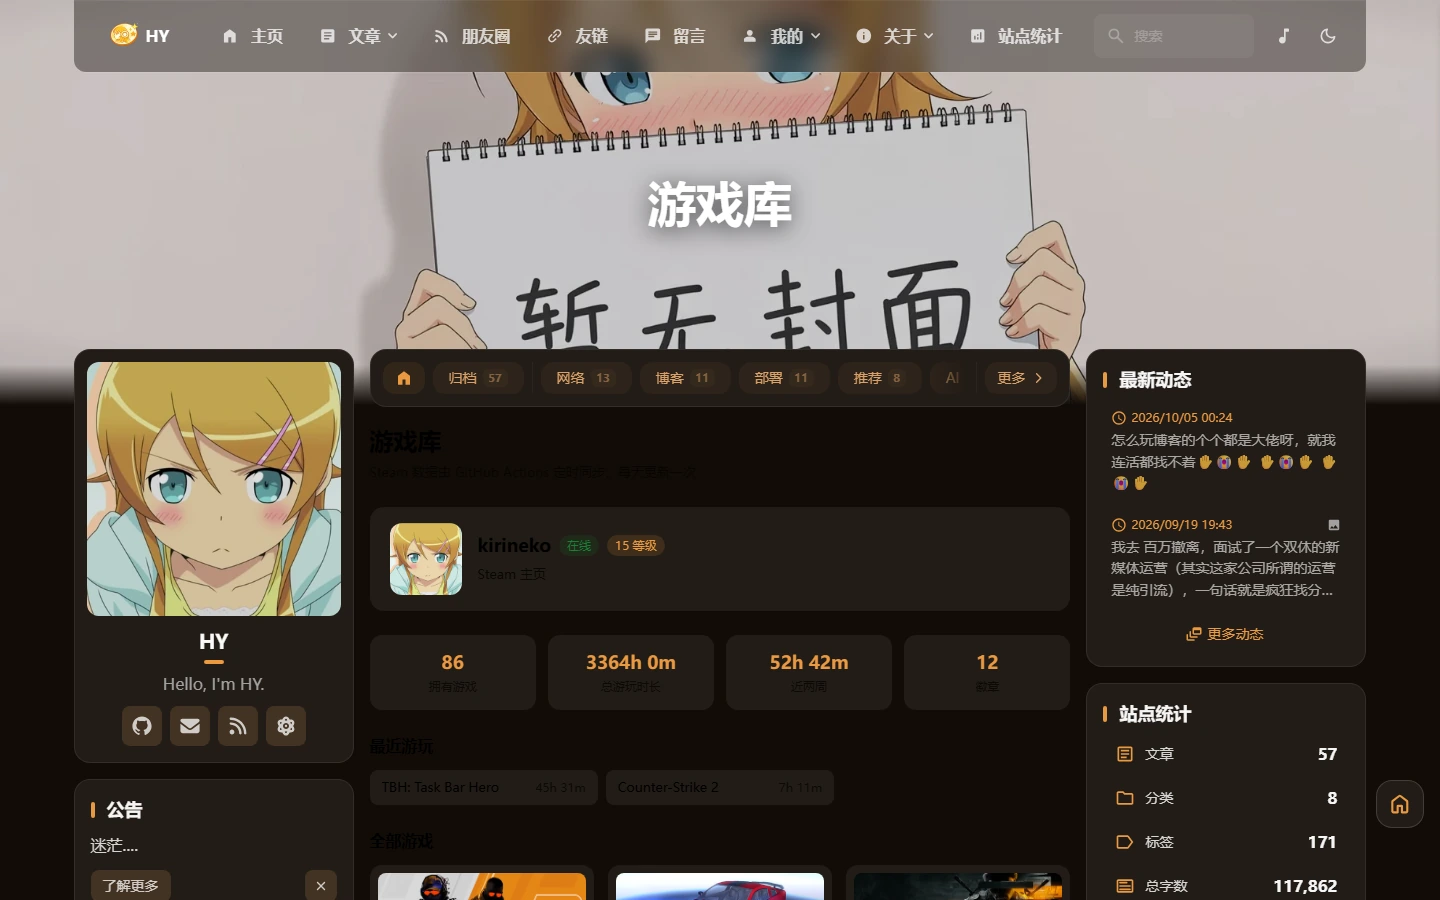
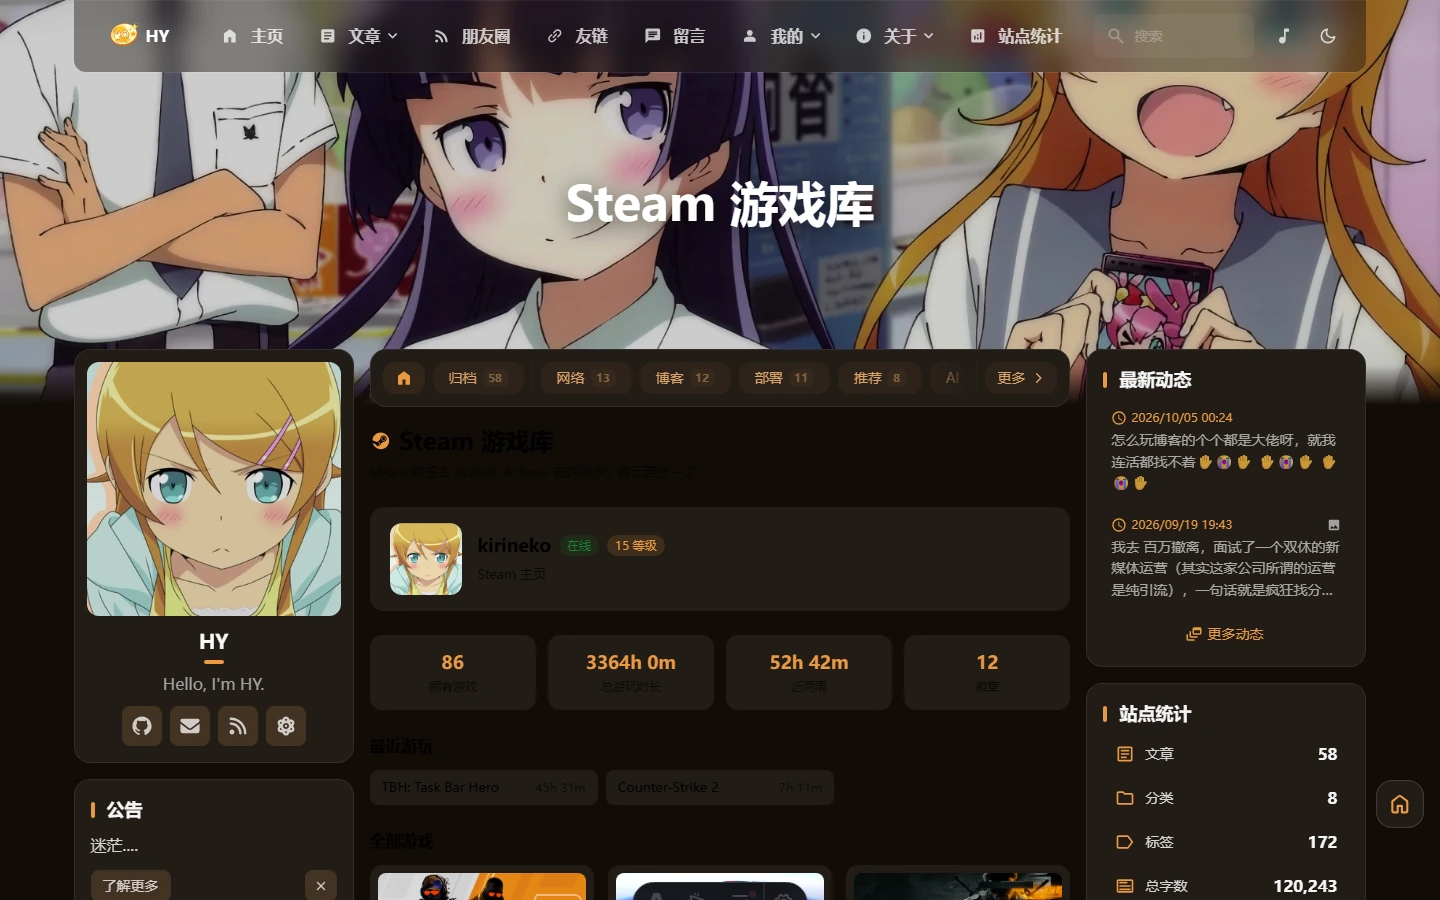
refactor(steam): 标题改为「Steam 游戏库」并换上 Steam 图标
- 页面 h1 与 <title> 从「游戏库」改为「Steam 游戏库」，h1 前加 Steam 图标，
  尺寸 1.35rem、颜色跟随 var(--primary)
- 导航「我的」子菜单项同步改名，图标由 material-symbols:sports-esports
  换成 fa6-brands:steam
- 文章配图重截（旧图上还是「游戏库」，图文不一致）：originals 存新原图，
  images 重新出 webp，封面仍按 2:1 从 y=180 裁
- lqips.json 手工同步这 4 条：generate-lqips.ts 只处理 json 里没有的 key，
  同名图永远不重算，不手工改首屏会闪一道旧图的占位色

diff --git a/src/config/navBarConfig.ts b/src/config/navBarConfig.ts
@@ -78,9 +78,9 @@ const getDynamicNavBarConfig = (): NavBarConfig => {
 
 			// Steam 游戏库（数据由 GitHub Actions 定时写入快照）
 			{
-				name: "游戏库",
+				name: "Steam 游戏库",
 				url: "/steam/",
-				icon: "material-symbols:sports-esports",
+				icon: "fa7-brands:steam",
 			},
 		],
 	});
